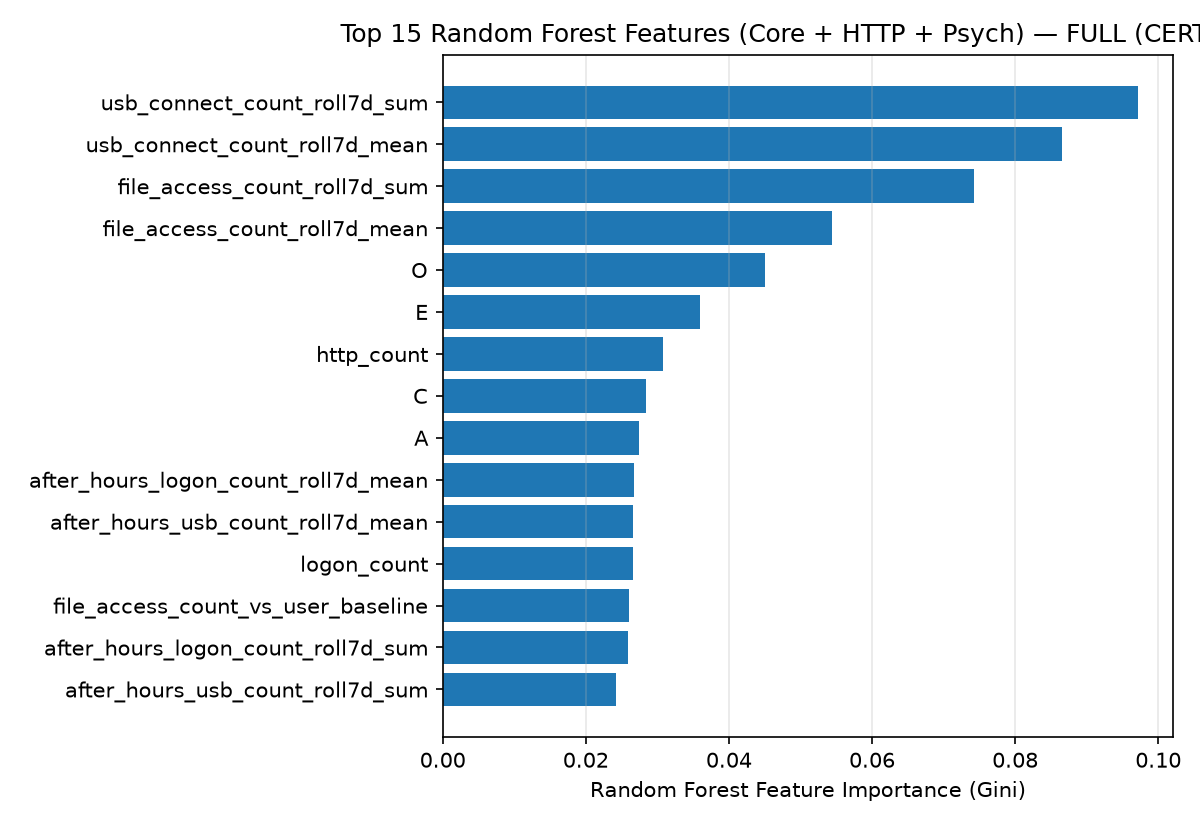
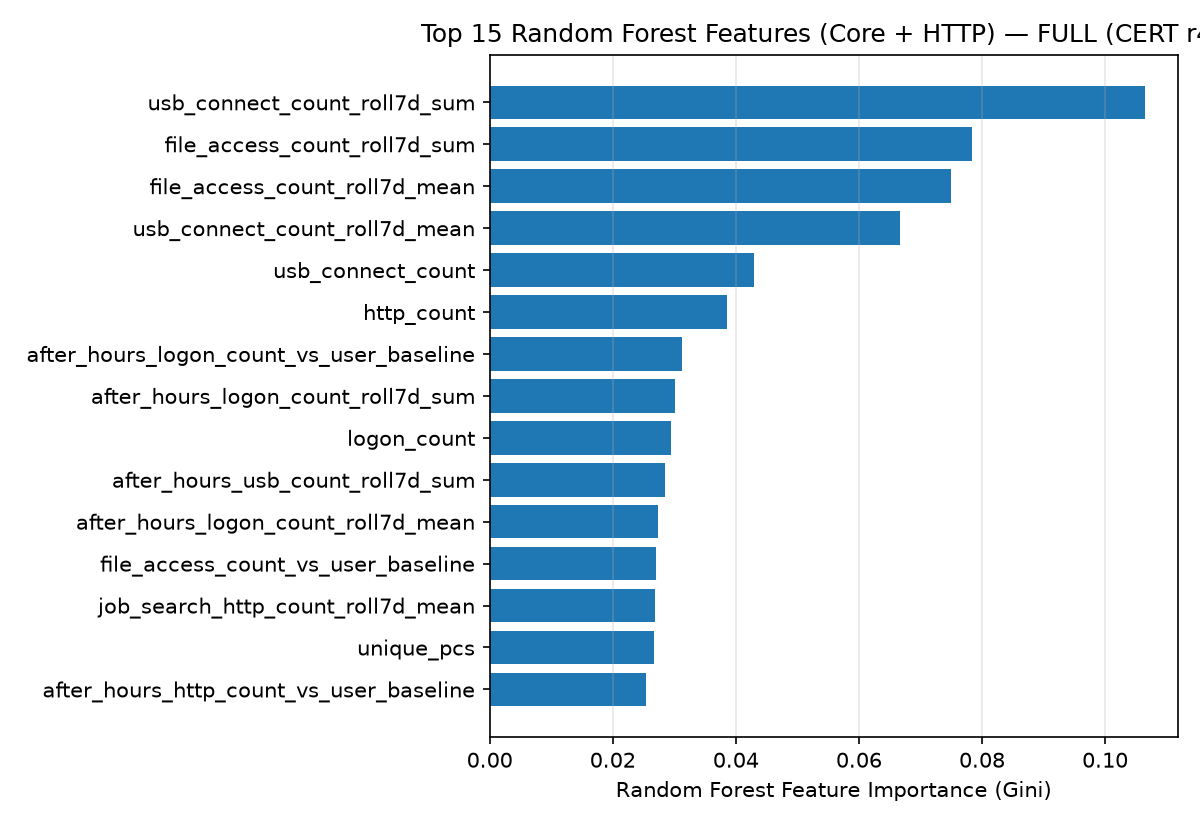
Restrict primary selection to behavioral features after psychometric overfitting ablation

diff --git a/main.py b/main.py
@@ -172,7 +172,9 @@ def run_pipeline(full_mode: bool, data_dir_override: str | None = None, rebuild_
     _plot_ablation(ablation_df, out_dir / "ablation_pr_auc.png", mode_label)
 
     # Select best feature set strictly by mean Validation PR-AUC (zero test leakage)
-    val_summary = ablation_df.groupby("feature_set")["val_pr_auc"].mean()
+    # (Static psychometric traits are retained in Experiment 1 ablation to document user-ID overfitting)
+    behavioral_df = ablation_df[ablation_df["feature_set"] != "Core + HTTP + Psych"]
+    val_summary = behavioral_df.groupby("feature_set")["val_pr_auc"].mean()
     best_fs = str(val_summary.idxmax())
     best_cols = feature_sets[best_fs]
 
